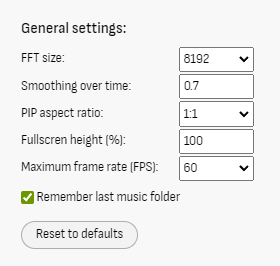
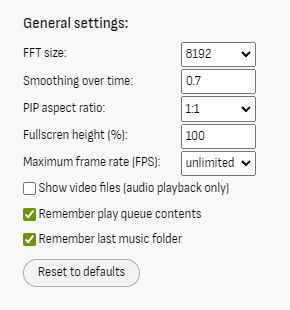
Update documentation.

Changed region(s): [[0.0571, 0.1203, 0.9143, 0.9624], [0.0571, 0.0602, 0.4571, 0.4511]]

diff --git a/docs/users-manual.md b/docs/users-manual.md
@@ -314,7 +314,7 @@ visualization of frequencies to which the human ear is more or less sensitive.
 
 ![weighting-filters-curves](img/weighting-filters-curves.png)
 
-?> Weighting filters **do NOT** affect the audio output.
+?> Weighting filters **do NOT** affect audio output. Some filters may impact performance, due to increased real-time data processing.
 
 ### Channel Layout
 
@@ -329,7 +329,7 @@ Selects single or dual channel display, with different layout options:
 | **HORIZ** | Dual channel, side by side - see [Mirror](#mirror) for additional layout options.
 | **VERT**  | Dual channel, left channel at the top half of the canvas and right channel at the bottom.
 
-This setting does NOT affect the audio output of stereo songs.
+The channel layout setting does NOT affect stereo audio output.
 
 ### Switches
 
@@ -338,7 +338,7 @@ This setting does NOT affect the audio output of stereo songs.
 | Switch      | Description |
 |:------------|:------------|
 | **INFO**    | Toggle on-screen display of song information on every track change
-| **PEAKS**   | Toggle display of amplitude peaks for each frequency
+| **PEAKS**   | Toggle display of amplitude peaks
 | **SCALE&nbsp;X** | Toggle display of scale on the horizontal axis (frequency)
 | **NOTES**   | Switch between musical notes and frequency values for the labels displayed in the horizontal axis scale
 | **SCALE&nbsp;Y** | Toggle display of scale on the vertical axis (level/volume)
@@ -346,15 +346,13 @@ This setting does NOT affect the audio output of stereo songs.
 | **ANSI**    | Switch between [ANSI/IEC preferred frequencies](https://archive.org/details/gov.law.ansi.s1.11.2004) and [equal-tempered scale](http://hyperphysics.phy-astr.gsu.edu/hbase/Music/et.html) to generate octave bands
 | **FPS**     | Toggle display of current frame rate at the top right corner
 | **FLAT**    | Switch between outlined (on) or shadowed (off) text for messages displayed on canvas (shadowed mode may affect performance on some graphics cards)
-| **LO-RES**  | Toggle low resolution rendering to improve rendering speed (especially useful for 4K+ displays)
-
-| Switch      | Description | Example |
-|:------------|:------------|:-------:|
-| **ALPHA**   | Toggle varying bar transparency - the higher the bar amplitude the more opaque it is | <img src="img/alpha-on-off.webp" width="360">
-| **LUMI**    | Toggle luminance bars effect - similar to ALPHA, but all analyzer bars are displayed at full-height (no effect with RADIAL) | <img src="img/screenshot5.png" width="360">
-| **LEDS**    | Toggle vintage LED effect for the analyzer bars | <img src="img/leds.png" width="360">
-| **OUTLINE** | Toggle bar outline mode - see [Line width and Fill opacity](#line-width-and-fill-opacity) settings | <img src="img/outline.png" width="360">
-| **RADIAL**  | Toggle display of circular spectrum analyzer with radial bars. **This mode disables both LEDS and LUMI effects.** | <img src="img/screenshot7.png" width="360">
+| **LO-RES**  | Toggle low resolution mode (may improve performance, especially on 4K+ displays)
+| **ALPHA**   | Toggle variable bar transparency - the higher the bar amplitude the more opaque it is
+| **LUMI**    | Toggle luminance bars effect - similar to ALPHA, but all analyzer bars are displayed at full-height (no effect with RADIAL)
+| **LEDS**    | Toggle LED effect for the analyzer bars (bands modes only, no effect with RADIAL)
+| **OUTLINE** | Toggle bar outline mode - see [Line width and Fill opacity](#line-width-and-fill-opacity) settings (bands modes only)
+| **RADIAL**  | Toggle display of circular spectrum analyzer with radial bars. **This option disables both LEDS and LUMI effects.**
+| **ROUND**   | Toggle rounded corners at the top of analyzer bars (bands modes only)
 
 
 ## Console
@@ -430,7 +428,11 @@ You can also use the **Shift** + **Up** and **Down** arrows to adjust the analyz
 **Maximum frame rate (FPS)** allows you to control the maximum animation frame rate, in frames per second.
 'Unlimited' will try to match your monitor's refresh rate, but may result in high CPU usage.
 
-**Remember last music folder**, when checked, will cause the file explorer to start in the last previously used folder, when opening audioMotion again.
+**Show video files** - whether or not to show video files in the file explorer.
+
+**Remember play queue contents** - whether or not to automatically restore the contents of the play queue the next time you open audioMotion.
+
+**Remember last music folder** - whether or not to start the file explorer in the last previously used folder the next time you open audioMotion.
 
 The **Reset to defaults** button will reset all settings in this section to their default values.
 

diff --git a/docs/README.md b/docs/README.md
@@ -77,6 +77,7 @@ And all the developers and artists, for the following resources:
 * Fonts [Orbitron](https://github.com/theleagueof/orbitron), [Jet Brains Mono](https://github.com/JetBrains/JetBrainsMono) (_from [Google Fonts](https://fonts.google.com/specimen/JetBrains+Mono)_) and
 [Sofia-Sans Semi-Condensed](https://github.com/lettersoup/Sofia-Sans) licensed under the [SIL Open Font License](https://scripts.sil.org/cms/scripts/page.php?site_id=nrsi&id=ofl)
 * Icons provided by [icons8](https://icons8.com) licensed under [Creative Commons Attribution-NoDerivs 3.0 Unported](https://creativecommons.org/licenses/by-nd/3.0/)
+* Additional icons provided by [@fontawesome](https://fontawesome.com) licensed under [Font Awesome Free License](https://fontawesome.com/license/free)
 * [Mouse scroll icon](https://thenounproject.com/term/mouse-scroll/628146/) by Viktor Ostrovsky, licensed under [Creative Commons CCBY](https://creativecommons.org/licenses/by/3.0/us/legalcode)
 * Gradients *Prism* and *Rainbow* use the [12-bit rainbow palette](https://iamkate.com/data/12-bit-rainbow/) by Kate Morley
 * Gradients [*Candy*](https://gradienthunt.com/gradient/172), [*Miami*](https://gradienthunt.com/gradient/950), [*Outrun*](https://gradienthunt.com/gradient/317) and [*Tie Dye*](https://gradienthunt.com/gradient/969) from [Gradient Hunt](https://gradienthunt.com)
